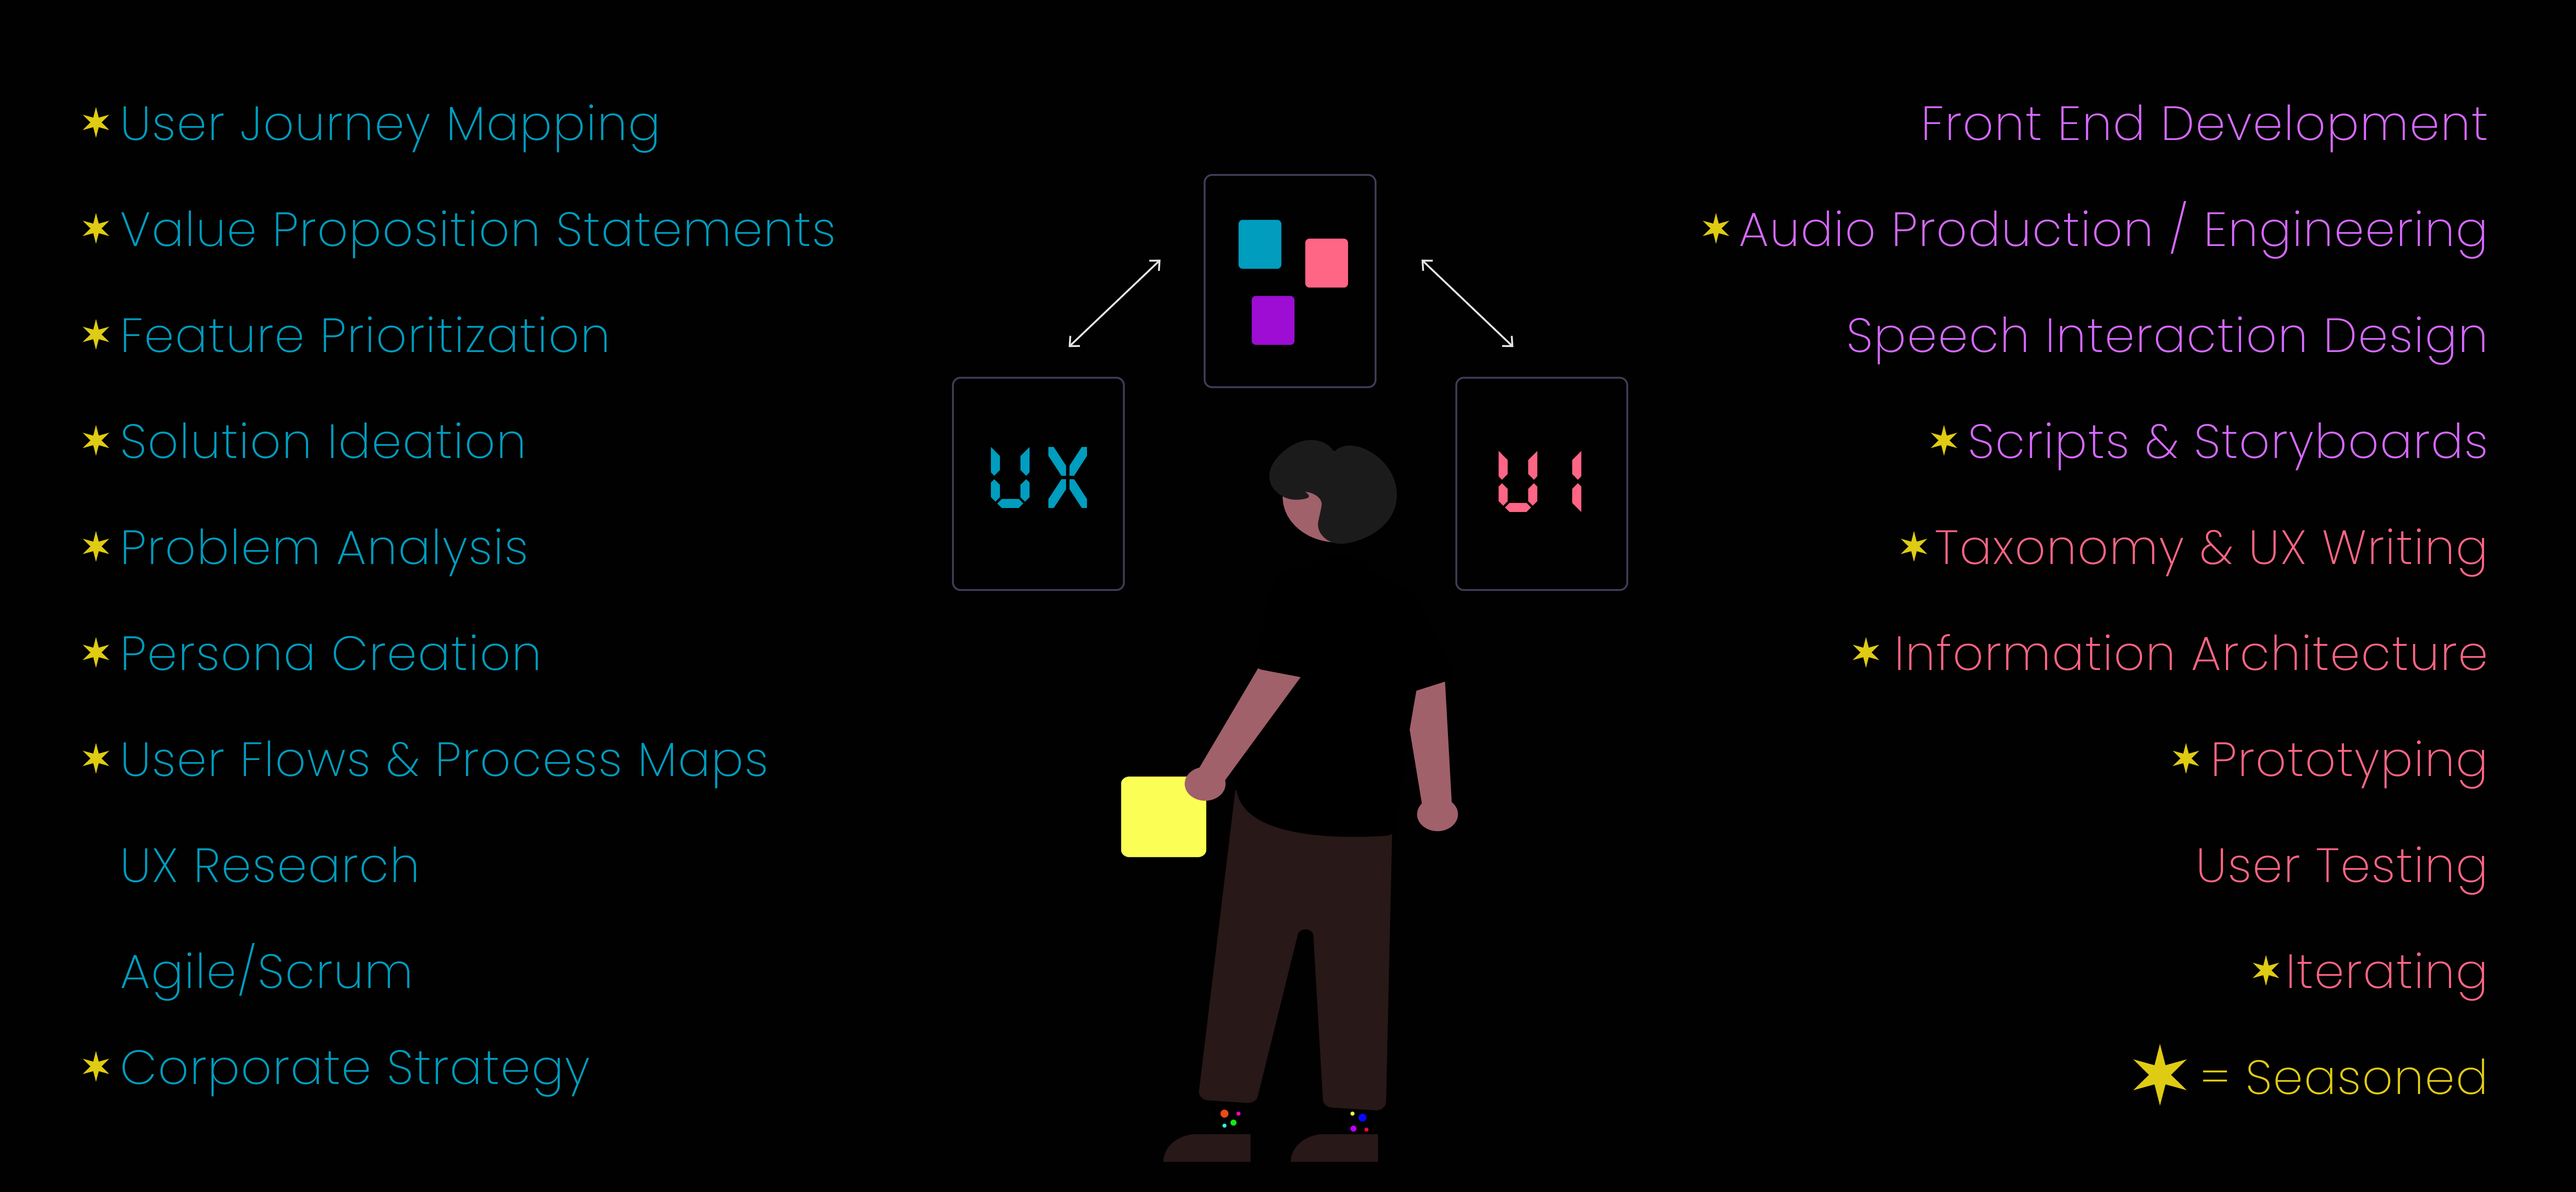
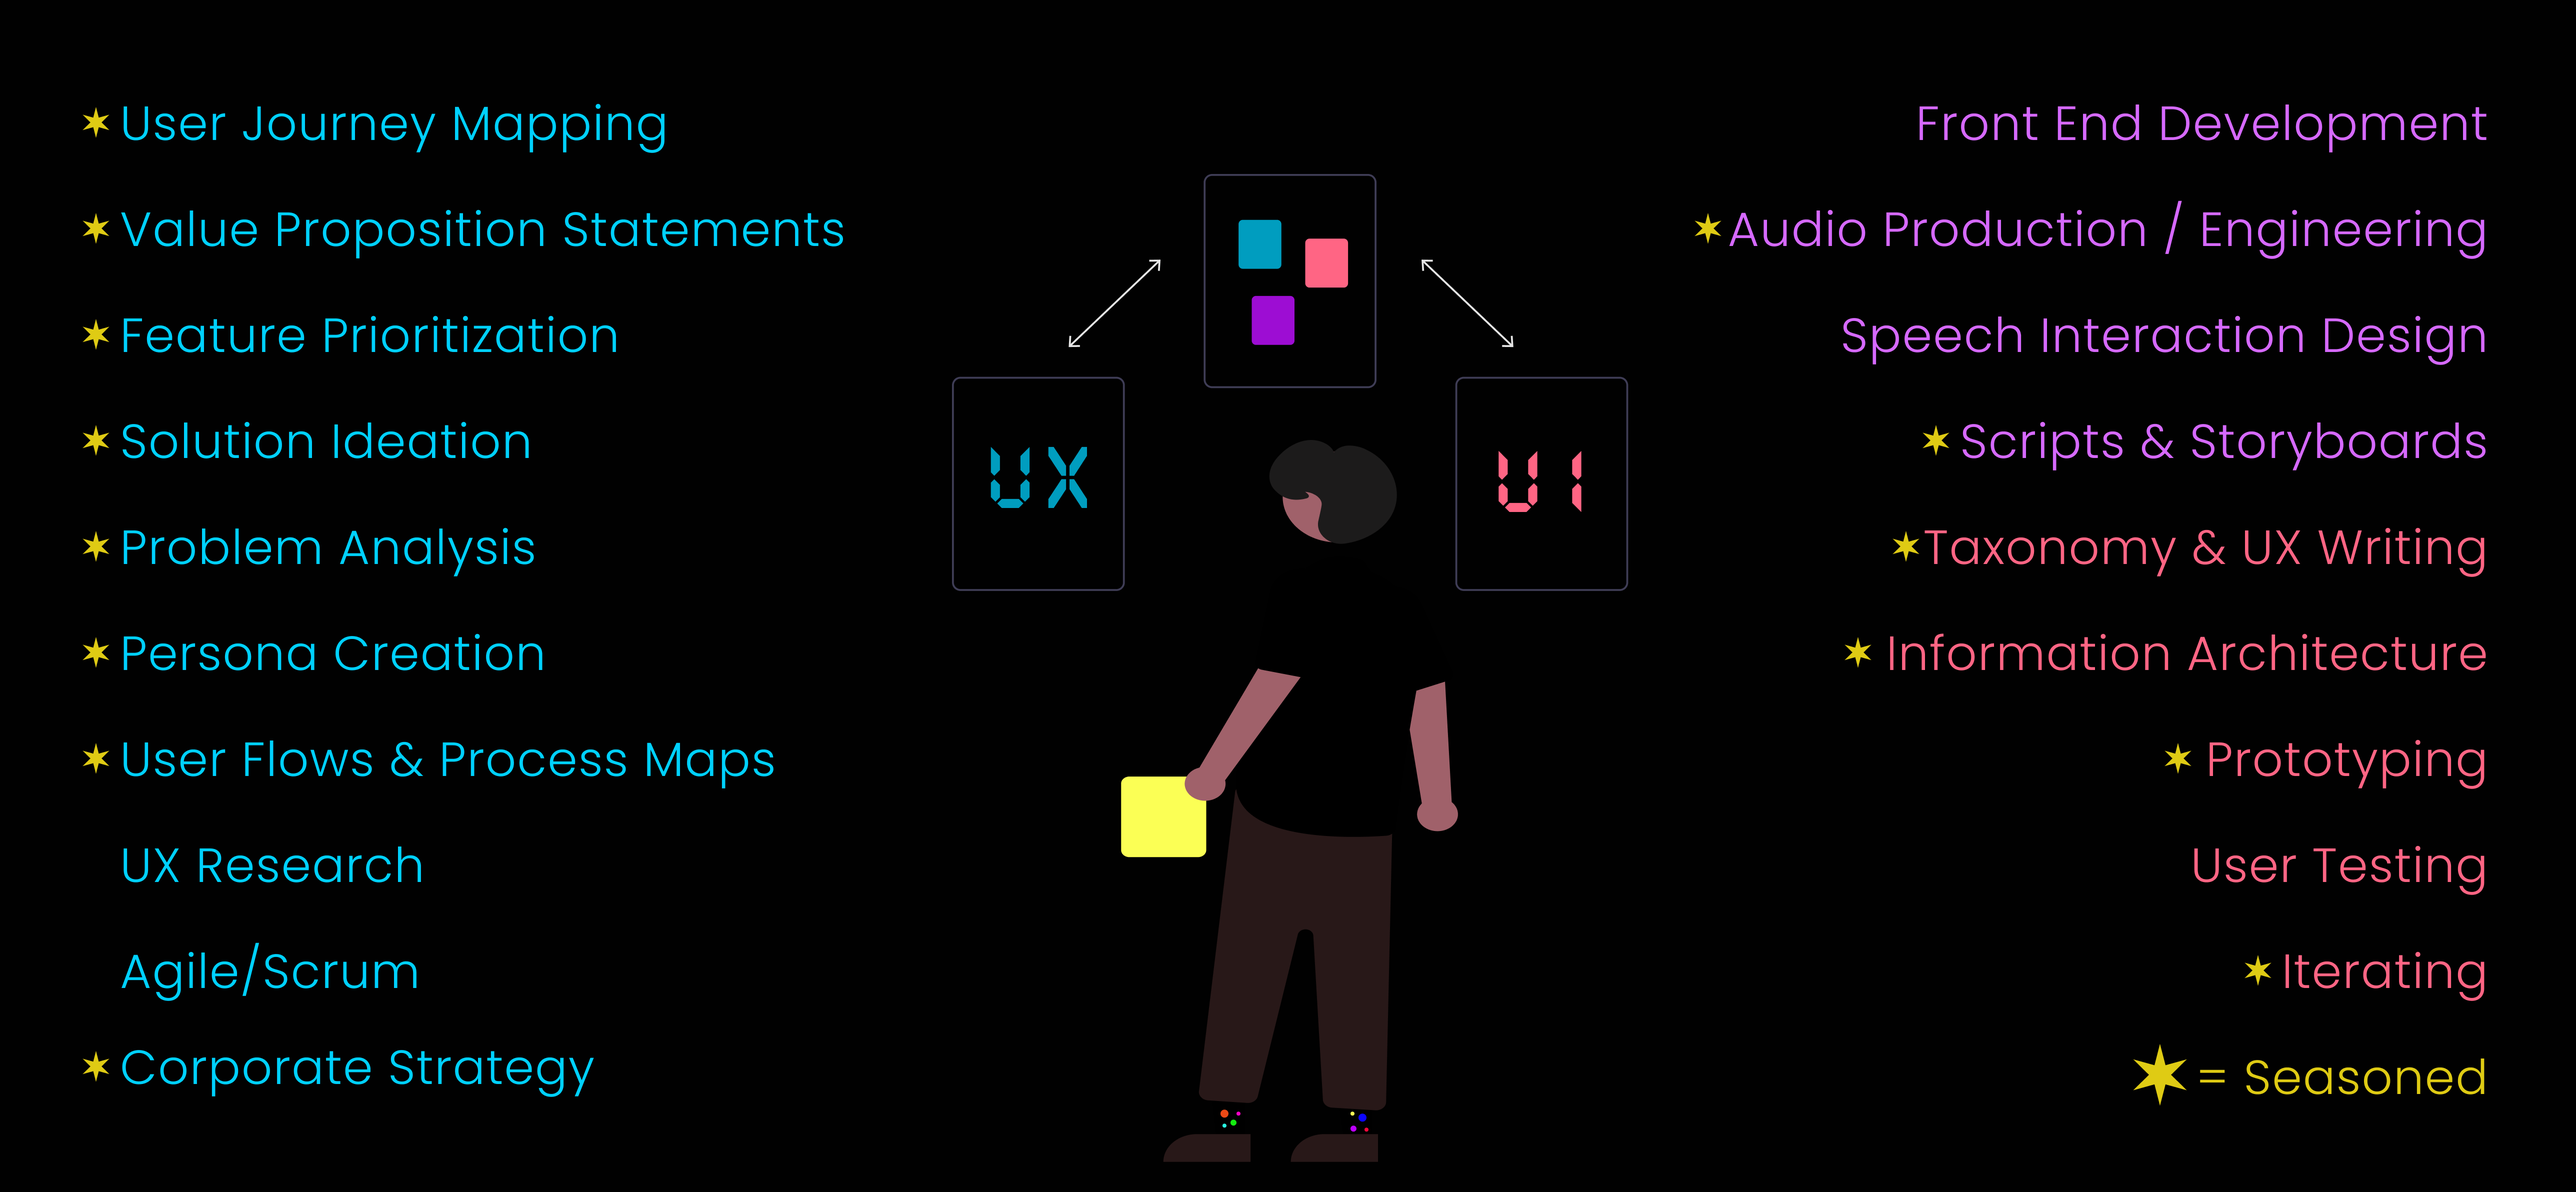
increased contrast SKLZ page

diff --git a/prjx.html b/prjx.html
@@ -62,7 +62,7 @@
 
 </script>
      
-<div id="delayedText" style="visibility:hidden" background="unset"><h3>Sorry -<br>No music<br>in this<br>section.<br><br>You'll need<br>some quiet<br>to read<br>the case<br>studies!~</h3></div>
+<div id="delayedText" style="visibility:hidden" background="unset"><h3>Click an<br>image to<br>select a<br>project.<br><br>You'll need<br>some quiet<br>to read<br>the case<br>studies!~</h3></div>
 
 <script>
   

diff --git a/css/index.css b/css/index.css
@@ -265,7 +265,7 @@ margin-right: 5.5%;
     text-align: center;
   }
   .slide {
-    animation: slideArrow 1.8s infinite;
+    animation: slideArrow 2s infinite;
   }
  @keyframes slideArrow {
     from {

diff --git a/css/prjx.css b/css/prjx.css
@@ -256,5 +256,5 @@ overflow-x: scroll;
             font-weight: bold;
             letter-spacing: 1px;
             line-height: 1.5;
-            opacity: 0.5;
+            opacity: 0.7;
           }

diff --git a/css/facts.css b/css/facts.css
@@ -253,7 +253,7 @@ background-color: #010101;
     font-weight: bold;
     letter-spacing: 1px;
     line-height: 1.5;
-    opacity: 0.5;
+    opacity: 0.7;
   }
 
   .controls{

diff --git a/css/mail.css b/css/mail.css
@@ -253,7 +253,7 @@ background-color: #010101;
     font-weight: bold;
     letter-spacing: 1px;
     line-height: 1.5;
-    opacity: 0.5;
+    opacity: 0.7;
   }
 
   .controls{

diff --git a/css/sklz.css b/css/sklz.css
@@ -246,7 +246,7 @@
     font-weight: bold;
     letter-spacing: 1px;
     line-height: 1.5;
-    opacity: 0.5;
+    opacity: 0.7;
   }
 
   .controls{
